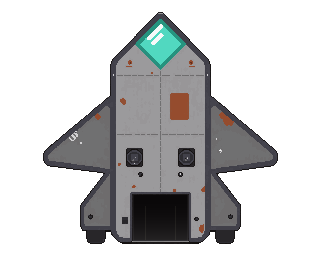
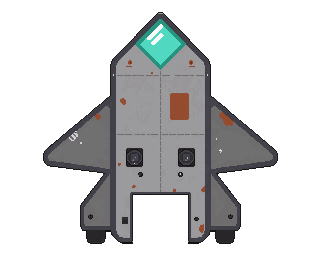
Bay floor and ramp under the tank; fix UI button click areas
Claude-Session: https://claude.ai/code/session_01LXYmPyiH2S4SqjairYP47n

Changed region(s): [[0.4062, 0.75, 0.5938, 0.9688]]

diff --git a/src/scenes/GameScene.ts b/src/scenes/GameScene.ts
@@ -113,6 +113,10 @@ export class GameScene extends Phaser.Scene {
   /** The cargo door shutter; it slides up into the hull to open. */
   private door!: Phaser.GameObjects.Image;
   private shipSmokeMs = 0;
+  /** The menu has been shown for this stay in the ship. */
+  private menuShown = false;
+  /** Leaving: the tank has started rolling out of the open door. */
+  private rollingOut = false;
   /** Rocks and the ship, grown by a drone's radius, for steering. */
   private droneObstacles: Circle[] = [];
   /** Rock collision circles, for burrowers (which pass under them). */
@@ -189,6 +193,8 @@ export class GameScene extends Phaser.Scene {
       setCircleBody(part, c.r);
     }
     const door = SHIP.layout.door;
+    // The bay floor and ramp sit under the tank; the shutter closes over it.
+    this.add.image(center.x + door.x, center.y + door.y, 'ship_bay').setOrigin(0, 0).setDepth(9);
     this.door = this.add.image(center.x + door.x, center.y + door.y, 'ship_door').setOrigin(0, 0).setDepth(11.6);
     this.shipSmokeMs = 0;
 
@@ -382,6 +388,14 @@ export class GameScene extends Phaser.Scene {
     this.door.setCrop(0, hidden, d.w, d.h - hidden).setY(c.y + d.y - hidden);
 
     if (this.shipState === 'outside' && atDoorway(rel, this.doorOpen, SHIP.layout)) this.enterShip();
+    // Parked: the menu opens once the door has shut behind the tank.
+    if (this.shipState === 'inside' && this.doorOpen === 0 && !this.workshopOpen && !this.menuShown) {
+      this.menuShown = true;
+      this.workshopOpen = true;
+      sfx.play('open');
+    }
+    // Leaving: roll out once the door is fully open.
+    if (this.shipState === 'exiting' && this.doorOpen === 1 && !this.rollingOut) this.rollOut();
 
     // A wisp of smoke from the wreck's broken engine.
     this.shipSmokeMs += delta;
@@ -401,22 +415,29 @@ export class GameScene extends Phaser.Scene {
     this.save();
     this.driveTank(entryPath(SHIP.layout).map((p) => ({ x: c.x + p.x, y: c.y + p.y })), () => {
       this.shipState = 'inside';
-      this.workshopOpen = true;
-      sfx.play('open');
+      this.menuShown = false;
       this.save();
     });
   }
 
   /** Closes the ship menu and rolls the tank back out of the door, facing away from the ship. */
   exitShip() {
-    if (this.shipState !== 'inside') return;
-    const c = this.world.center;
-    const L = SHIP.layout;
+    if (this.shipState !== 'inside' || !this.workshopOpen) return;
     this.workshopOpen = false;
     this.holdFire = true;
     this.shipState = 'exiting';
+    this.rollingOut = false;
+  }
+
+  /** The door is open: drive down the ramp and away from the ship. */
+  private rollOut() {
+    const c = this.world.center;
+    const L = SHIP.layout;
+    this.rollingOut = true;
     this.tank.hull.setPosition(c.x + L.hold.x, c.y + L.hold.y);
-    this.driveTank([{ x: c.x + L.exit.x, y: c.y + L.exit.y }], () => {
+    // Back down the ramp, turn round clear of the ship, and drive off.
+    const clear = { x: c.x + L.hold.x, y: c.y + L.exit.y - SHIP.turnRoom, reverse: true };
+    this.driveTank([clear, { x: c.x + L.exit.x, y: c.y + L.exit.y }], () => {
       const at = { x: this.tank.x, y: this.tank.y };
       const facing = this.tank.hull.rotation;
       this.leaveShipNow();
@@ -435,24 +456,34 @@ export class GameScene extends Phaser.Scene {
     this.tankBody.enable = true;
   }
 
-  /** Drives the tank (physics off) through each point in turn at the ship's driving speed, facing the way it goes. */
-  private driveTank(points: { x: number; y: number }[], done: () => void): void {
+  /**
+   * Drives the tank (physics off) through each point in turn at the ship's
+   * driving speed, facing the way it goes (or away from it when reversing).
+   * Small turns happen on the move; a big one (turning round) happens first, in place.
+   */
+  private driveTank(points: DriveLeg[], done: () => void): void {
     const [p, ...rest] = points;
     if (!p) return done();
     const hull = this.tank.hull;
     const dist = Math.hypot(p.x - hull.x, p.y - hull.y);
     if (dist < 1) return this.driveTank(rest, done);
-    // Swing round to face the way it's going (the short way), then roll there.
-    const facing = Math.atan2(p.y - hull.y, p.x - hull.x);
+    const facing = Math.atan2(p.y - hull.y, p.x - hull.x) + (p.reverse ? Math.PI : 0);
     const turn = Phaser.Math.Angle.Wrap(facing - hull.rotation);
-    this.tweens.add({ targets: hull, rotation: hull.rotation + turn, duration: Math.abs(turn) * 160 });
-    this.tweens.add({
-      targets: hull,
-      x: p.x,
-      y: p.y,
-      duration: (dist / SHIP.driveSpeed) * 1000,
-      onComplete: () => this.driveTank(rest, done),
-    });
+    const roll = () =>
+      this.tweens.add({
+        targets: hull,
+        x: p.x,
+        y: p.y,
+        duration: (dist / SHIP.driveSpeed) * 1000,
+        onComplete: () => this.driveTank(rest, done),
+      });
+    const turnMs = Math.abs(turn) * 140;
+    if (Math.abs(turn) > 1) {
+      this.tweens.add({ targets: hull, rotation: hull.rotation + turn, duration: turnMs, onComplete: roll });
+      return;
+    }
+    if (turnMs > 0) this.tweens.add({ targets: hull, rotation: hull.rotation + turn, duration: turnMs });
+    roll();
   }
 
   private get tankBody() {
@@ -853,6 +884,14 @@ function setCircleBody(img: Phaser.Physics.Arcade.Image, radius: number) {
   // StaticBody.setCircle stores an offset without moving the body by it;
   // setOffset does move it, so apply the offset separately.
   body.setCircle(radius).setOffset(img.width / 2 - radius, img.height / 2 - radius);
+}
+
+/** One stretch of a scripted drive through the ship's door. */
+interface DriveLeg {
+  x: number;
+  y: number;
+  /** Drive backwards: keep facing the other way. */
+  reverse?: boolean;
 }
 
 function droneOf(obj: unknown): Drone {

diff --git a/src/systems/ship.ts b/src/systems/ship.ts
@@ -14,7 +14,7 @@ export interface ShipLayout {
   hull: readonly Circle[];
   /** The cargo door opening in the art: left, top, width, height. */
   door: { x: number; y: number; w: number; h: number };
-  /** Where the tank comes to rest inside, hidden by the hull. */
+  /** Where the tank parks in the cargo bay; the door shuts over it. */
   hold: Vec;
   /** Where the tank comes out and is placed after a rescue, just clear of the door. */
   exit: Vec;
@@ -37,8 +37,9 @@ export function doorMouth(l: ShipLayout): Vec {
   return { x: l.door.x + l.door.w / 2, y: l.door.y + l.door.h };
 }
 
-/** How open the door should be: wide open while the tank is near or passing through. */
+/** How open the door should be: open for a nearby tank or one rolling through, shut once it's parked inside. */
 export function doorTarget(state: ShipState, tank: Vec, l: ShipLayout): number {
+  if (state === 'inside') return 0;
   if (state !== 'outside') return 1;
   const m = doorMouth(l);
   return Math.hypot(tank.x - m.x, tank.y - m.y) < l.openDistance ? 1 : 0;
@@ -71,9 +72,9 @@ export function inFrontOfDoor(tank: Vec, l: ShipLayout): boolean {
   return Math.abs(tank.x - m.x) <= FRONT_LANE && tank.y >= m.y && Math.hypot(tank.x - m.x, tank.y - m.y) < l.openDistance;
 }
 
-/** The route the ship drives the tank in by: straight to the doorway, then into the hold. */
+/** The route the ship drives the tank in by: straight to the doorway, then up the ramp into the bay. */
 export function entryPath(l: ShipLayout): Vec[] {
-  return [doorMouth(l), { ...l.hold }];
+  return [{ x: l.hold.x, y: doorMouth(l).y }, { ...l.hold }];
 }
 
 /** True if a point (relative to the ship center) is within `pad` of the hull. */

diff --git a/e2e/workshop.spec.ts b/e2e/workshop.spec.ts
@@ -155,3 +155,29 @@ test('clicks where the closed workshop buttons were do nothing', async ({ page }
   expect(await read<number>(page, `Object.values(${SCENE}.levels).reduce((a, b) => a + b, 0)`)).toBe(0);
   expect(await read<number>(page, `${SCENE}.fuel`)).toBe(30);
 });
+
+// Buttons are containers drawn from their top-left; their hit areas must cover
+// exactly what's drawn, at any display scaling (fractional on many Windows setups).
+for (const dpr of [1, 1.25]) {
+  test.describe(`at ${dpr}x display scaling`, () => {
+    test.use({ deviceScaleFactor: dpr, viewport: { width: 1536, height: 730 } });
+
+    test('clicks land on the card that is drawn there', async ({ page }) => {
+      await enter(page);
+      const box = (await page.locator('canvas').boundingBox())!;
+      const r = await read<{ x: number; y: number; w: number; h: number }>(
+        page,
+        `(() => { const b = ${HUD}.workshop.cards[5].bg.getBounds(); const z = ${GAME}.scale.zoom; return { x: b.x * z, y: b.y * z, w: b.width * z, h: b.height * z }; })()`,
+      );
+      const clickAt = async (fx: number, fy: number) => {
+        await page.evaluate(`${HUD}.workshop.select(0)`);
+        await page.mouse.click(box.x + r.x + r.w * fx, box.y + r.y + r.h * fy);
+        await page.waitForTimeout(40);
+        return read<number>(page, `${HUD}.workshop.selected`);
+      };
+      for (const [fx, fy] of [[0.15, 0.15], [0.85, 0.15], [0.15, 0.85], [0.85, 0.85]]) expect(await clickAt(fx, fy), `${fx},${fy}`).toBe(5);
+      // Just outside its top-left corner is not this card.
+      expect(await clickAt(-0.1, -0.1)).not.toBe(5);
+    });
+  });
+}

diff --git a/tests/ship.test.ts b/tests/ship.test.ts
@@ -10,7 +10,9 @@ describe('ship door', () => {
   it('opens for a nearby tank and stays open while it passes through', () => {
     expect(doorTarget('outside', { x: mouth.x, y: mouth.y + 60 }, L)).toBe(1);
     expect(doorTarget('outside', { x: mouth.x, y: mouth.y + L.openDistance + 5 }, L)).toBe(0);
-    for (const s of ['entering', 'inside', 'exiting'] as const) expect(doorTarget(s, { x: 9999, y: 9999 }, L)).toBe(1);
+    for (const s of ['entering', 'exiting'] as const) expect(doorTarget(s, { x: 9999, y: 9999 }, L)).toBe(1);
+    // Parked inside, it shuts behind the tank.
+    expect(doorTarget('inside', L.hold, L)).toBe(0);
   });
 
   it('slides at a steady rate and stops at its target', () => {
@@ -67,8 +69,12 @@ describe('ship geometry', () => {
     expect(stop).toBeLessThanOrEqual(mouth.y + L.mouthDepth - 4);
   });
 
-  it('hides the hold and keeps the exit clear', () => {
-    expect(overHull(L.hold, L)).toBe(true);
+  it('parks the tank inside the door opening and keeps the exit clear', () => {
+    // The tank (about 36 wide and 40 long facing up) fits within the door, so the shutter covers it.
+    expect(L.hold.x - 18).toBeGreaterThanOrEqual(L.door.x);
+    expect(L.hold.x + 18).toBeLessThanOrEqual(L.door.x + L.door.w);
+    expect(L.hold.y - 20).toBeGreaterThanOrEqual(L.door.y);
+    expect(L.hold.y + 20).toBeLessThanOrEqual(L.door.y + L.door.h);
     expect(overHull(L.exit, L, TANK.bodyRadius + 10)).toBe(false);
     expect(Math.hypot(L.exit.x - mouth.x, L.exit.y - mouth.y)).toBeLessThan(L.openDistance);
   });

diff --git a/e2e/polish.spec.ts b/e2e/polish.spec.ts
@@ -77,7 +77,7 @@ test('ground and rock art load from files and rocks collide where they are drawn
       return {
         // Every manifest entry with a file must load as an image (placeholders are canvases drawn at boot).
         sources: (() => {
-          const keys = s.textures.getTextureKeys().filter((k) => /^(terrain_ground|rock|up_|circuit|scrap|crystal|drone|spaceship|ship_door|tank_|burrower$|mound$)/.test(k));
+          const keys = s.textures.getTextureKeys().filter((k) => /^(terrain_ground|rock|up_|circuit|scrap|crystal|drone|spaceship|ship_door|ship_bay|tank_|burrower$|mound$)/.test(k));
           return { count: keys.length, placeholders: keys.filter((k) => !(src(k) instanceof HTMLImageElement)) };
         })(),
         variants: [...new Set(rocks.map((b) => b.gameObject.texture.key))].sort(),
@@ -86,7 +86,7 @@ test('ground and rock art load from files and rocks collide where they are drawn
     })()`,
   );
   // One texture per PNG in public/assets, none of them a fallback placeholder.
-  expect(r.sources).toEqual({ count: 26, placeholders: [] });
+  expect(r.sources).toEqual({ count: 27, placeholders: [] });
   expect(r.variants).toEqual(['rock', 'rock_2', 'rock_3', 'rock_l1', 'rock_l2', 'rock_s1', 'rock_s2']);
   expect(r.offCenter).toBeLessThan(0.5);
 });

diff --git a/e2e/ship.spec.ts b/e2e/ship.spec.ts
@@ -44,10 +44,11 @@ test('driving into the door takes the tank inside, opens the menu and calms the 
       const s = ${SCENE};
       const c = s.world.center;
       const rel = { x: s.tank.x - c.x, y: s.tank.y - c.y };
-      return { state: s.shipState, menu: ${HUD}.workshop.visible, hidden: rel.y < 60 && Math.abs(rel.x) < 30, body: s.tank.hull.body.enable, drone: [...s.drones.values()][0].brain.mode };
+      const parked = Math.abs(rel.x - s.shipLayout.hold.x) < 1 && Math.abs(rel.y - s.shipLayout.hold.y) < 1;
+      return { state: s.shipState, menu: ${HUD}.workshop.visible, parked, doorShut: s.doorOpen === 0, body: s.tank.hull.body.enable, drone: [...s.drones.values()][0].brain.mode };
     })()`,
   );
-  expect(r).toEqual({ state: 'inside', menu: true, hidden: true, body: false, drone: 'return' });
+  expect(r).toEqual({ state: 'inside', menu: true, parked: true, doorShut: true, body: false, drone: 'return' });
 });
 
 test('leaving the menu drives the tank back out, facing away from the ship', async ({ page }) => {

diff --git a/src/ui/widgets.ts b/src/ui/widgets.ts
@@ -135,8 +135,10 @@ export class Button extends Phaser.GameObjects.Container {
     this.disabledBg = frame(scene, 'ui_button_disabled', 0, 0, w, h).setVisible(false);
     this.add([this.bg, this.hover, this.disabledBg]);
     this.setSize(w, h);
-    // Containers hit-test around their center; give an explicit top-left rectangle instead.
-    this.setInteractive(new Phaser.Geom.Rectangle(0, 0, w, h), Phaser.Geom.Rectangle.Contains);
+    // Phaser hit-tests a container as if its contents were centered on it (it
+    // adds half the size to the pointer's local position), but ours are drawn
+    // from the top-left. Shift the rectangle by half a size so it covers what's drawn.
+    this.setInteractive(new Phaser.Geom.Rectangle(w / 2, h / 2, w, h), Phaser.Geom.Rectangle.Contains);
     this.on('pointerover', () => this.setHovered(true));
     this.on('pointerout', () => this.setHovered(false));
     this.on('pointerdown', () => onClick());

diff --git a/src/data/tuning.ts b/src/data/tuning.ts
@@ -85,13 +85,14 @@ export const SHIP = {
       { x: 64, y: 80, r: 30 },
     ],
     door: { x: -27, y: 67, w: 55, h: 45 },
-    hold: { x: 0, y: 40 },
+    hold: { x: 0, y: 89 }, // parked in the open bay, under where the door shuts
     exit: { x: 0, y: 172 },
     openDistance: 120,
     mouthDepth: 34,
   },
   doorMs: 450, // door fully opening or closing
   driveSpeed: 110, // px/sec rolling in or out under the ship's control
+  turnRoom: 26, // px short of the exit where the tank, backed out, turns round
   exitInvulnMs: 1200, // fresh out of the door, nothing can hurt the tank yet
 } as const;
 

diff --git a/src/data/assets.ts b/src/data/assets.ts
@@ -112,6 +112,18 @@ export const ASSETS: AssetDef[] = [
     },
   },
   {
+    // Cargo bay floor (the opening is cut out of the ship) plus the loading
+    // ramp below it. Drawn under the tank, so the tank drives onto it.
+    key: 'ship_bay',
+    file: 'assets/ship_bay.png',
+    width: 55,
+    height: 67,
+    placeholder: (g) => {
+      g.fillStyle(0x1c1a1e).fillRect(0, 0, 55, 49);
+      g.fillStyle(0x5c5b64).fillRect(0, 49, 55, 16);
+    },
+  },
+  {
     // Cargo door shutter, 55x45, drawn over the bay opening; slides up to open.
     key: 'ship_door',
     file: 'assets/ship_door.png',

diff --git a/docs/GAME_DESIGN.md b/docs/GAME_DESIGN.md
@@ -153,18 +153,18 @@ All numbers live in `BURROWERS` in `src/data/tuning.ts`; logic in `src/systems/b
 Geometry and timings in `SHIP` (`src/data/tuning.ts`). Pure door and footprint logic in `src/systems/ship.ts`, unit tested in `tests/ship.test.ts`.
 
 - **Size and solidity:** a 320×256 wreck at the world center, nose north, about 2.5× the old one. Its hull is eleven invisible collision circles (nose, fuselage, cargo bay, wings, wing roots, engine pods), checked against the art with `?debug`. Tanks, drones and shells all hit it, and drones steer around it.
-- **Cargo door:** at the bottom center, facing the spawn. It slides up into the hull when the tank's center comes within 120 px of the doorway, and shuts again when the tank leaves. The shutter is a separate sprite cropped in whole-pixel steps, and the opening behind it is a dark hold painted into the ship's art.
+- **Cargo door:** at the bottom center, facing the spawn. It slides up into the hull when the tank's center comes within 120 px of the doorway, and shuts again when the tank leaves. The shutter is a separate sprite cropped in whole-pixel steps, drawn above the tank. The opening is cut out of the ship image and filled by a separate `ship_bay` sprite drawn *below* the tank: the bay floor, the door sill and a loading ramp outside it.
 - **Going in:**
   - Drive into the open doorway. The hull stops the tank just below it, and that counts; it may be up to 12 px off either side of the door.
   - Or press E in front of the door: within 40 px either side of its middle and 120 px below it. A unit test checks that the run in from anywhere in that lane never cuts through the hull.
-  - The ship takes over: physics off, it rolls the tank in at 110 px/s, turning smoothly. The ship draws above the tank, so it vanishes into the hold.
-  - Once inside, the ship menu (the workshop) opens and the game saves.
+  - The ship takes over: physics off, it rolls the tank up the ramp at 110 px/s, turning smoothly, and parks it in the open bay. The tank is drawn on the bay floor the whole way, so it never looks like it drives under the ship.
+  - The door then shuts over the parked tank and the ship menu (the workshop) opens. The game saves on the way in.
 - **Safety:** you're safe only inside. While entering, inside or leaving:
   - the tank can't be damaged, burns no fuel and can't fire
   - drones and burrowers lose interest
   - there's no visible "safe zone" any more
 - **Leaving:**
-  - E, Esc, or the **Leave ship** button closes the menu. The tank rolls out to the spawn point, 60 px below the door, facing south.
+  - E, Esc, or the **Leave ship** button closes the menu. The door opens, the tank backs down the ramp, turns round clear of the ship, and drives to the spawn point 60 px below the door, facing south.
   - You then get control back with 1.2 s of invulnerability (the tank blinks), and fire is held until the mouse is released.
   - The door shuts once you drive away.
 - **Rescue:** puts the tank at the spawn point outside the door, door open.
@@ -178,4 +178,5 @@ Geometry and timings in `SHIP` (`src/data/tuning.ts`). Pure door and footprint l
   - Burrower-01's roaming range plus its tread sense overlaps the door area by about 64 px, so it can come for a tank sitting by the door.
   - Burrowers never surface within 70 px of the doorway or under the ship.
 - **Wreck dressing:** scorch marks under the ship and a wisp of smoke from the right engine.
+- **UI buttons (fix):** Phaser hit-tests a container as if its contents were centred on it, but the kit's buttons draw from their top-left. Every button's click area was therefore shifted up and left by half its size, which you notice most with display scaling. The hit rectangle is now offset by half a size, and a browser test clicks near all four corners of a card at 1× and 1.25× display scaling.
 

diff --git a/docs/PROGRESS.md b/docs/PROGRESS.md
@@ -141,6 +141,13 @@ Developer feedback: good; rocks needed size variety and jiggled while moving (fi
 
 **Verified:** typecheck ✅, 136 unit tests ✅ (adds the world-layout lock, door logic, hull geometry and rock gaps, the E lane never clipping the hull, drones getting home from beside the ship), 49 browser tests ✅ (adds: door opens and shuts, driving in opens the menu and calms drones, the Leave ship button rolls the tank out facing south without firing, the hull is solid, old save relocation, saving from inside). The changed browser specs passed 3 times in a row.
 
+### M12 follow-up (playtest feedback)
+
+- **Driving in looked like driving under the ship.** The bay floor and a new loading ramp now draw beneath the tank. The tank parks in the open bay, the door shuts over it, then the menu opens. Leaving: the door opens, the tank backs down the ramp, turns, and drives off.
+- **Menu clicks were off.** Every UI button's click area was shifted up and left by half its size (Phaser centres container hit areas). Fixed, with a corner-click test at 1× and 1.25× display scaling.
+
+**Verified:** 136 unit tests ✅, 51 browser tests ✅.
+
 ## Next
 
 - Developer playtest of v0.4.

diff --git a/docs/ART_REQUESTS.md b/docs/ART_REQUESTS.md
@@ -135,6 +135,7 @@ All art is generated by the coding agent with PixelLab (via MCP) at development 
   - Every result came back on an opaque grey background despite `no_background`, so the background was removed with a flood fill from the edges, stopping at the black outline.
   - The door panel (55×45 at canvas 133,195) was cut out as `ship_door.png`, the shutter that slides up to open.
   - The opening in `spaceship.png` was repainted as a dark hold: a black-to-dark-grey gradient with two floor rails.
+- **Bay and ramp (code-painted):** the door opening and its sill (55×49) were cut out of `spaceship.png` into `ship_bay.png`, drawn under the tank so it drives onto the floor rather than under the hull. The bay floor was repainted as deck plates with floor rails, and an 18-px loading ramp with hazard-striped rails was added below the sill, in the ship's colours.
 - **Not very "crashed":** the art reads as a parked ship. The wreck look comes from in-game scorch marks and engine smoke.
 
 ## UI kit (code-drawn)
